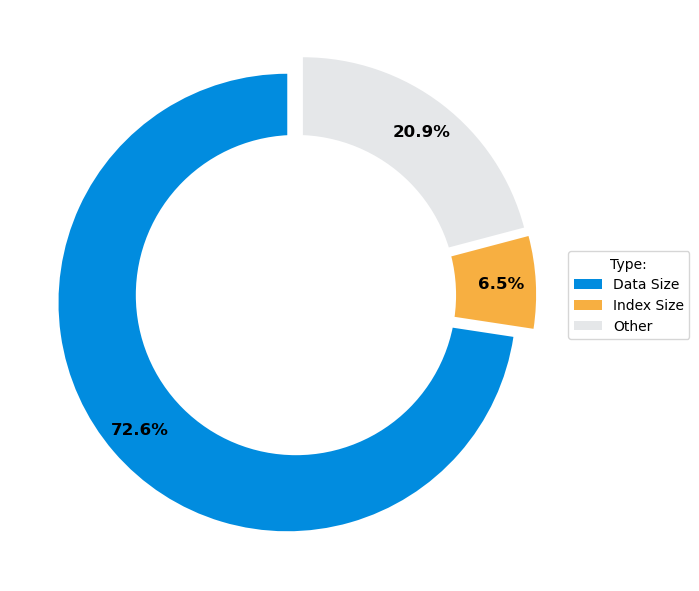
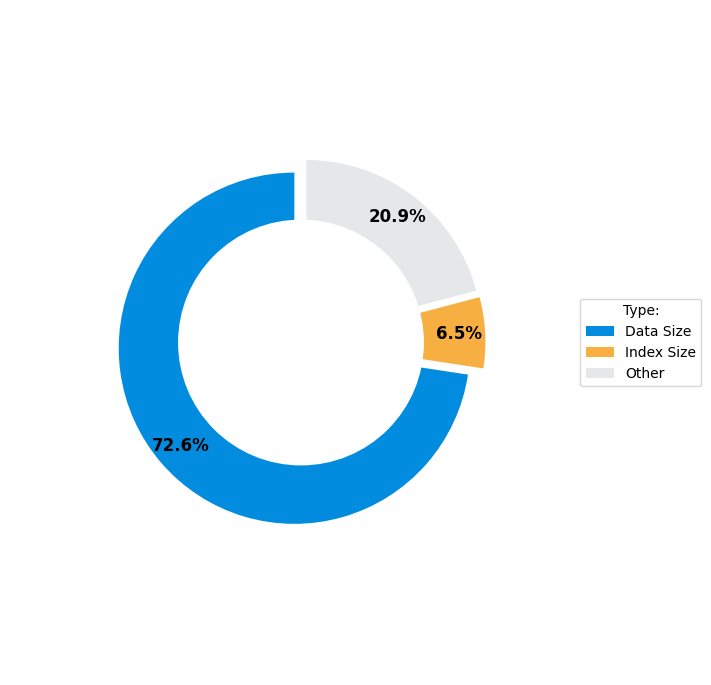
revisefhon

diff --git a/sections/DataBase/database_report.py b/sections/DataBase/database_report.py
@@ -29,31 +29,8 @@ load_dotenv()
 # In[4]:
 
 
-<<<<<<< HEAD
-# from urllib.request import urlopen
-
-# file_queries = os.getenv('file_queries')
-
-# # Open the file using urlopen
-# with urlopen(file_queries) as file:
-#     # Read the HTML content from the file
-#     html_content = file.read().decode('utf-8')
-
-# # Parse the HTML using BeautifulSoup
-# queries_ = BeautifulSoup(html_content, 'html.parser')
-
-# # Print the prettified HTML
-# print(queries_.prettify())
-
-
-# In[5]:
-   
-file_queries = os.getenv('REPORT_SERVICE')+'database/report/2311'
-print('file_queries',file_queries)
-=======
 file_queries = os.getenv('REPORT_SERVICE')+"database/report/2311"
 print(file_queries)
->>>>>>> master
 
 
 # In[5]:
@@ -155,8 +132,6 @@ else:
 
 
 # In[12]:
-<<<<<<< HEAD
-=======
 
 
 # formatted_num_queries
@@ -169,7 +144,6 @@ print(num_queries)
 # In[13]:
 
 
->>>>>>> master
 file_type = os.getenv('REPORT_SERVICE')+"database/report/2311#queries-by-type"
 print(file_type)
 
@@ -269,11 +243,7 @@ my_list_of_lists
 # plt.title('Type of Queries')
 # plt.axis('equal')  # Equal aspect ratio ensures that pie is drawn as a circle.
 
-<<<<<<< HEAD
-# Show the pie chart
-=======
 # # Show the pie chart
->>>>>>> master
 # plt.show()
 
 
@@ -354,14 +324,14 @@ cmap = get_cmap('Blues')
 inner_colors = cmap(np.linspace(0.2, 1, num))
 
 # Plot the pie chart
-fig, ax = plt.subplots(figsize=(10, 6))
+fig_query_type, ax = plt.subplots(figsize=(10, 6))
 wedges, texts, autotexts = ax.pie(sizes, labels=labels, autopct='%1.1f%%', startangle=90, pctdistance=0.85, explode=explode,
                                   colors=inner_colors, textprops={'fontsize': 9, 'weight': 'bold'})
 
 # Add a circle at the center to make it a donut chart
 centre_circle = plt.Circle((0, 0), 0.70, fc='white')
-fig = plt.gcf()
-fig.gca().add_artist(centre_circle)
+fig_query_type = plt.gcf()
+fig_query_type.gca().add_artist(centre_circle)
 
 # Equal aspect ratio ensures that the pie is drawn as a circle
 ax.axis('equal')
@@ -376,7 +346,7 @@ ax.legend(wedges, labels, title="Queries by Type", loc="center left", bbox_to_an
 plt.tight_layout()
 
 # Save the plot
-fig.savefig('./sections/DataBase/queries_by_type_image.png')
+fig_query_type.savefig('queries_by_type_image.png')
 
 # plt.show()
 
@@ -408,74 +378,8 @@ json_data
 # In[26]:
 
 
-<<<<<<< HEAD
-# Access individual values and assign them to variables
-db_name_space_leakage = df_disk_space_leakage['db_name']
-desc_space_leakage = df_disk_space_leakage['desc']
-data_space_leakage = df_disk_space_leakage['data']
-
-# Access values within the 'data' dictionary
-database_name_space_leakage = data_space_leakage['database_name']
-total_database_size_space_leakage = data_space_leakage['total_database_size']
-total_table_size_space_leakage = data_space_leakage['total_table_size']
-total_index_size_space_leakage = data_space_leakage['total_index_size']
-
-# Print or use the variables as needed
-print("db_name:", db_name_space_leakage)
-print("desc:", desc_space_leakage)
-print("database_name:", database_name_space_leakage)
-print("total_database_size:", total_database_size_space_leakage)
-print("total_table_size:", total_table_size_space_leakage)
-print("total_index_size:", total_index_size_space_leakage)
-
-
-# In[27]:
-
-
-# Convert to Megabyte
-total_database_size_space_leakage_mb = round(total_database_size_space_leakage / (1024 * 1024), 4)
-
-print("total database size in MB:", total_database_size_space_leakage_mb)
-
-
-# In[28]:
-
-
-# Assuming you have calculated these percentages
-percent_table_size_space_leakage = (total_table_size_space_leakage / total_database_size_space_leakage) * 100
-percent_index_size_space_leakage = (total_index_size_space_leakage / total_database_size_space_leakage) * 100
-percent_other_space_leakage = 100 - percent_table_size_space_leakage - percent_index_size_space_leakage
-
-# Pie chart
-labels = ['Data Size', 'Index Size', 'Other']
-sizes = [percent_table_size_space_leakage, percent_index_size_space_leakage, percent_other_space_leakage]
-explode = tuple([0.05] * len(sizes))
-inner_colors = ['#018CDF', '#F7AF41', '#E5E7E9']
-
-plt.pie(sizes, colors=inner_colors, autopct='%1.1f%%', startangle=90, pctdistance=0.85, explode=explode, textprops={'fontsize': 12, 'weight': 'bold'})
-centre_circle = plt.Circle((0, 0), 0.70, fc='white')
-fig = plt.gcf()
-fig.gca().add_artist(centre_circle)
-
-plt.tight_layout()
-plt.legend(labels=labels, title="Type:", loc='right', bbox_to_anchor=(1.2, 0.5))
-plt.title('Disk Space', loc='left', fontsize=20, weight='bold', color="#9B9B9B")
-fig.set_size_inches(6, 7)
-
-# plt.show()
-
-# Save the plot
-fig.savefig('./sections/DataBase/disk_space_leakage_chart_image.png', bbox_inches='tight')
-
-
-# ##  Disk Space Salinity
-
-# In[29]:
-
-=======
 import matplotlib.pyplot as plt
 import locale
->>>>>>> master
 
 # Set the locale for formatting numbers with commas
 locale.setlocale(locale.LC_ALL, 'en_US.UTF-8')
@@ -518,22 +422,23 @@ for df_disk_space in json_data:
     explode = tuple([0.05] * len(sizes))
     inner_colors = ['#018CDF', '#F7AF41', '#E5E7E9']
 
+    plt.cla()
     plt.pie(sizes, colors=inner_colors, autopct='%1.1f%%', startangle=90, pctdistance=0.85, explode=explode,
             textprops={'fontsize': 12, 'weight': 'bold'})
     centre_circle = plt.Circle((0, 0), 0.70, fc='white')
-    fig = plt.gcf()
-    fig.gca().add_artist(centre_circle)
+    fig_disk_space = plt.gcf()
+    fig_disk_space.gca().add_artist(centre_circle)
 
     plt.tight_layout()
     plt.legend(labels=labels, title="Type:", loc='right', bbox_to_anchor=(1.2, 0.5))
     # plt.title('Disk Space', loc='left', fontsize=20, weight='bold', color="#9B9B9B")
-    fig.set_size_inches(6, 7)
+    fig_disk_space.set_size_inches(6, 7)
 
-    plt.show()
+    # plt.show()
 
     # Save the plot
     image_disk_space = f'{db_name_space}_disk_space.png'
-    fig.savefig(image_disk_space, bbox_inches='tight')
+    fig_disk_space.savefig(image_disk_space, bbox_inches='tight')
     plt.close()  # Close the plot to avoid overlapping when iterating over multiple datasets
 
 
@@ -548,25 +453,8 @@ for df_disk_space in json_data:
 print(disk_space)
 
 
-<<<<<<< HEAD
-plt.pie(sizes, colors=inner_colors, autopct='%1.1f%%', startangle=90, pctdistance=0.85, explode=explode, textprops={'fontsize': 12, 'weight': 'bold'})
-centre_circle = plt.Circle((0, 0), 0.70, fc='white')
-fig = plt.gcf()
-fig.gca().add_artist(centre_circle)
-
-plt.tight_layout()
-plt.legend(labels=labels, title="Type:", loc='right', bbox_to_anchor=(1.2, 0.5))
-plt.title('Disk Space', loc='left', fontsize=20, weight='bold', color="#9B9B9B")
-fig.set_size_inches(6, 7)
-
-# plt.show()
-
-# Save the plot/Users/mh-air/Desktop/fhon/python/mhl-ma-report/sections/DataBase/disk_space_leakage_chart_image.png
-fig.savefig('./sections/DataBase/disk_space_salinity_chart_image.png', bbox_inches='tight')
-=======
 # In[27]:
 
->>>>>>> master
 
 from docxtpl import DocxTemplate,InlineImage
 
@@ -576,21 +464,12 @@ context = {
     'num_unique_queries': num_unique_queries,
     'num_queries': num_queries,
     'queries_per_second': queries_per_second,
-<<<<<<< HEAD
-    'total_database_size_space_leakage_mb': total_database_size_space_leakage_mb,
-    'total_database_size_space_salinity_mb': total_database_size_space_salinity_mb,
-    # 'queries_by_type_image': InlineImage(doc,f".D:/maholan/mwa_html/pull_html/mhl-ma-report/sections/DataBase/queries_by_type_image.png"),
-    # 'disk_space_leakage_chart_image': InlineImage(doc,f".D:/maholan/mwa_html/pull_html/mhl-ma-report/sections/DataBase/disk_space_leakage_chart_image.png"),
-    # 'disk_space_salinity_chart_image': InlineImage(doc,f".D:/maholan/mwa_html/pull_html/mhl-ma-report/sections/DataBase/disk_space_salinity_chart_image.png")
-}
-=======
-    'queries_by_type_image': InlineImage(doc,"./DataBase/queries_by_type_image.png"),
-    'disk_space': disk_space
+    # 'queries_by_type_image': InlineImage(doc,"./DataBase/queries_by_type_image.png"),
+    'total_leakage_database_size_mb': disk_space[0]['total_database_size_mb'],
+    'total_quality_database_size_mb':disk_space[1]['total_database_size_mb']
     }
+print(context)
 
->>>>>>> master
-
-print('contextttt',context)
 # doc.render(context)
 # doc.save(f'./Docxfile/{month}_{year}/Audittrail_edit.docx')
 
